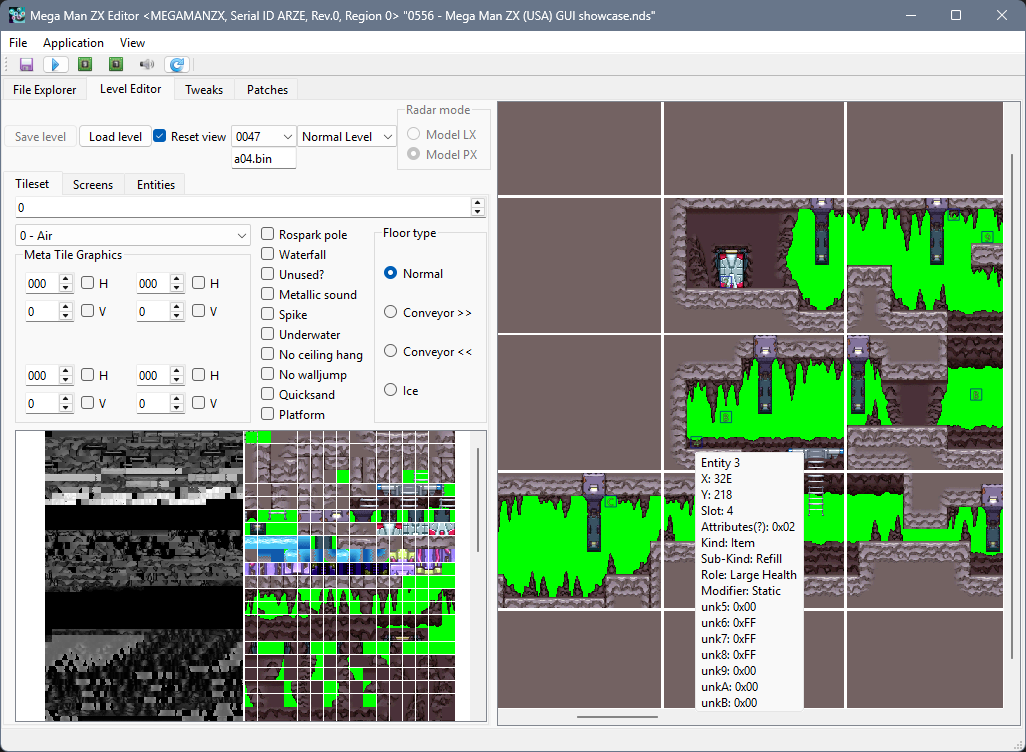
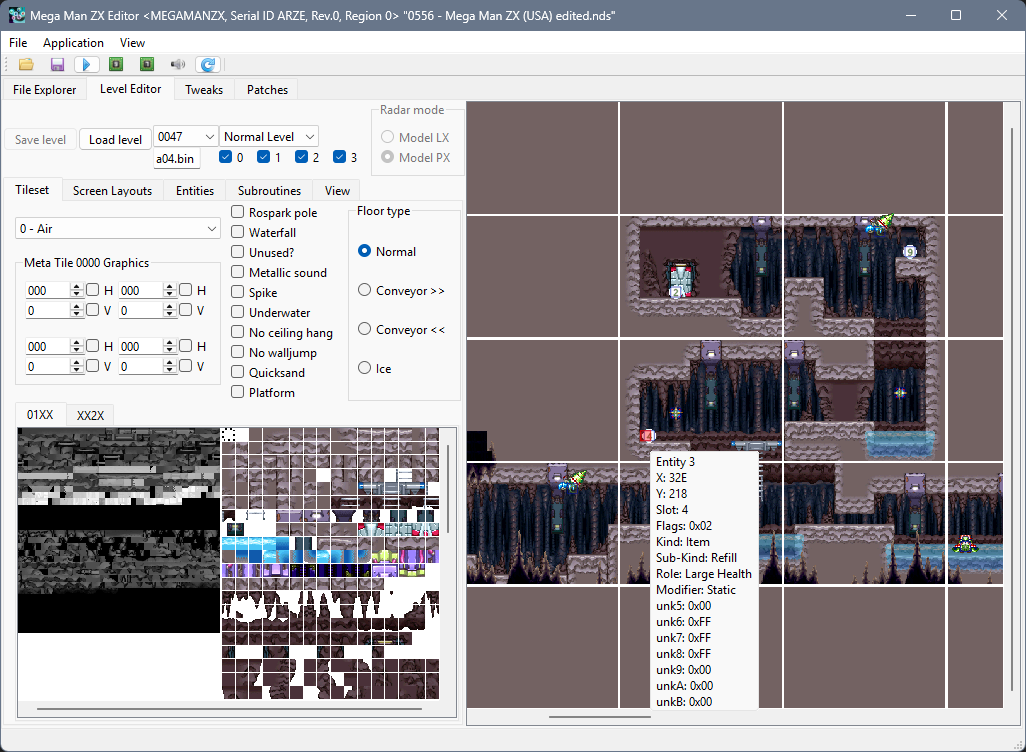
Level Editor more compact
- Removed spacing and margins in a lot of layouts and set size policies to maximize the amount of space taken by the level view and tileset view while making the other widgets more compact
- Bump pyhton and PyQt versions in about

diff --git a/MME_NDS.py b/MME_NDS.py
@@ -80,8 +80,8 @@ class MainWindow(QtWidgets.QMainWindow):
         super().__init__()
         # expected module versions
         self.VERSION_EDITOR = "0.4.6" # objective, feature, WIP
-        self.VERSION_PYTHON = "3.14.3"
-        self.VERSION_PYQT = "6.11.0"
+        self.VERSION_PYTHON = "3.15.1"
+        self.VERSION_PYQT = "6.12.0"
         self.VERSION_NDSPY = "4.2.0"
         self.window_width = 1024
         self.window_height = 720
@@ -449,6 +449,7 @@ class MainWindow(QtWidgets.QMainWindow):
 
         self.page_leveleditor = QtWidgets.QWidget(self.tabs)
         self.page_leveleditor.setLayout(QtWidgets.QHBoxLayout())
+        self.page_leveleditor.layout().setSpacing(1)
         self.page_leveleditor.layout().setContentsMargins(0,0,0,0)
 
         self.page_tweaks = QtWidgets.QWidget(self.tabs)
@@ -1272,42 +1273,43 @@ class MainWindow(QtWidgets.QMainWindow):
         self.FILEOPEN_WIDGETS: list[QtWidgets.QWidget] = [self.tree, *self.viewFormatsGroup.actions(), self.displayConvAction]
 
         # Level Editor(WIP)
-        self.layout_level_editpannel = QtWidgets.QVBoxLayout()
-        self.layout_level_editpannel.setContentsMargins(0,0,0,0)
+        self.level_editpannel = QtWidgets.QWidget(self.page_leveleditor)
+        self.level_editpannel.setSizePolicy(QtWidgets.QSizePolicy.Policy.Maximum, QtWidgets.QSizePolicy.Policy.Preferred)
+        self.level_editpannel.setLayout(QtWidgets.QVBoxLayout())
+        self.level_editpannel.layout().setContentsMargins(0,0,0,0)
+        self.level_editpannel.layout().setSpacing(0)
 
-        self.button_level_save = QtWidgets.QPushButton("Save level", self.page_leveleditor)
+        self.button_level_save = QtWidgets.QPushButton("Save level", self.level_editpannel)
         self.button_level_save.setMaximumWidth(75)
         self.button_level_save.setToolTip("Save this level's changes")
         self.button_level_save.pressed.connect(self.save_level)
         self.button_level_save.setDisabled(True)
 
-        self.button_level_load = QtWidgets.QPushButton("Load level", self.page_leveleditor)
+        self.button_level_load = QtWidgets.QPushButton("Load level", self.level_editpannel)
         self.button_level_load.setMaximumWidth(75)
         self.button_level_load.setToolTip("Load tileset(s) and layout. May take some time")
         self.button_level_load.pressed.connect(self.loadLevel)
         self.button_level_load.setDisabled(True)
 
-        self.checkbox_level_fitInView = QtWidgets.QCheckBox("Reset view", self.page_leveleditor)
-        self.checkbox_level_fitInView.setChecked(True)
-
-        self.dropdown_level_area = QtWidgets.QComboBox(self.page_leveleditor)
+        self.dropdown_level_area = QtWidgets.QComboBox(self.level_editpannel)
         self.dropdown_level_area.setPlaceholderText("Select...")
         self.dropdown_level_area.setToolTip("Choose an overlay to load")
         self.dropdown_level_area.currentIndexChanged.connect(self.updateLevelareaUI)
         self.dropdown_level_area.setDisabled(True)
 
-        self.lineedit_level_tilesetName = QtWidgets.QLineEdit("N/A", self.page_leveleditor)
+        self.lineedit_level_tilesetName = QtWidgets.QLineEdit("N/A", self.level_editpannel)
         self.lineedit_level_tilesetName.setToolTip("The name of the asset file that is used")
         self.lineedit_level_tilesetName.setMaxLength(8)
+        self.lineedit_level_tilesetName.setMaximumWidth(self.lineedit_level_tilesetName.fontMetrics().averageCharWidth()*self.lineedit_level_tilesetName.maxLength())
         self.lineedit_level_tilesetName.textChanged.connect(lambda: self.button_level_save.setEnabled(True))
         self.lineedit_level_tilesetName.setDisabled(True)
 
         self.layout_level_type = QtWidgets.QVBoxLayout()
         self.layout_level_type.setAlignment(QtCore.Qt.AlignmentFlag.AlignTop)
         self.layout_level_type.setContentsMargins(0,24,0,0)
-        self.dropdown_level_type = QtWidgets.QComboBox(self.page_leveleditor)
+        self.dropdown_level_type = QtWidgets.QComboBox(self.level_editpannel)
         self.dropdown_level_type.setPlaceholderText("N/A")
-        self.dropdown_level_type.setMinimumWidth(100)
+        self.dropdown_level_type.setMaximumWidth(100)
         self.dropdown_level_type.setToolTip("Choose between normal level and scanner map (if applicable)")
         self.dropdown_level_type.currentIndexChanged.connect(lambda: self.group_radar_tilesetType.setEnabled(self.dropdown_level_type.currentIndex() == 1))
         self.dropdown_level_type.currentIndexChanged.connect(lambda: self.checkbox_level_layout0.setEnabled(self.dropdown_level_type.currentIndex() == 0))
@@ -1317,17 +1319,17 @@ class MainWindow(QtWidgets.QMainWindow):
         self.dropdown_level_type.setDisabled(True)
 
         self.layout_level_layouts = QtWidgets.QHBoxLayout()
-        self.checkbox_level_layout0 = QtWidgets.QCheckBox("0", self.page_leveleditor)
+        self.checkbox_level_layout0 = QtWidgets.QCheckBox("0", self.level_editpannel)
         self.checkbox_level_layout0.setToolTip("Load Layout 0")
         self.checkbox_level_layout0.setChecked(True)
         self.checkbox_level_layout0.setDisabled(True)
-        self.checkbox_level_layout1 = QtWidgets.QCheckBox("1", self.page_leveleditor)
+        self.checkbox_level_layout1 = QtWidgets.QCheckBox("1", self.level_editpannel)
         self.checkbox_level_layout1.setToolTip("Load Layout 1")
         self.checkbox_level_layout1.setDisabled(True)
-        self.checkbox_level_layout2 = QtWidgets.QCheckBox("2", self.page_leveleditor)
+        self.checkbox_level_layout2 = QtWidgets.QCheckBox("2", self.level_editpannel)
         self.checkbox_level_layout2.setToolTip("Load Layout 2")
         self.checkbox_level_layout2.setDisabled(True)
-        self.checkbox_level_layout3 = QtWidgets.QCheckBox("3", self.page_leveleditor)
+        self.checkbox_level_layout3 = QtWidgets.QCheckBox("3", self.level_editpannel)
         self.checkbox_level_layout3.setToolTip("Load Layout 3")
         self.checkbox_level_layout3.setDisabled(True)
         self.layout_level_layouts.addWidget(self.checkbox_level_layout0)
@@ -1338,25 +1340,28 @@ class MainWindow(QtWidgets.QMainWindow):
         self.layout_level_type.addWidget(self.dropdown_level_type)
         self.layout_level_type.addItem(self.layout_level_layouts)
 
-        self.radio_radar_LX = QtWidgets.QRadioButton(self.page_leveleditor)
+        self.radio_radar_LX = QtWidgets.QRadioButton(self.level_editpannel)
         self.radio_radar_LX.setText("Model LX")
-        self.radio_radar_PX = QtWidgets.QRadioButton(self.page_leveleditor)
+        self.radio_radar_PX = QtWidgets.QRadioButton(self.level_editpannel)
         self.radio_radar_PX.setText("Model PX")
         self.buttonGroup_radar_tilesetType = QtWidgets.QButtonGroup()
         self.buttonGroup_radar_tilesetType.addButton(self.radio_radar_LX, 2) # rindex to getData
         self.buttonGroup_radar_tilesetType.addButton(self.radio_radar_PX, 1)
         #self.buttonGroup_radar_tilesetType.idReleased.connect(self.loadLevel)
-        self.group_radar_tilesetType = QtWidgets.QGroupBox(self.page_leveleditor)
-        self.group_radar_tilesetType.setMaximumHeight(70)
+        self.group_radar_tilesetType = QtWidgets.QGroupBox(self.level_editpannel)
+        self.group_radar_tilesetType.setSizePolicy(QtWidgets.QSizePolicy.Policy.Maximum, QtWidgets.QSizePolicy.Policy.Maximum)
         self.group_radar_tilesetType.setTitle("Radar mode")
         self.group_radar_tilesetType.setLayout(QtWidgets.QVBoxLayout())
+        self.group_radar_tilesetType.layout().setSpacing(0)
         self.group_radar_tilesetType.layout().addWidget(self.radio_radar_LX)
         self.group_radar_tilesetType.layout().addWidget(self.radio_radar_PX)
         self.group_radar_tilesetType.setDisabled(True)
 
-        self.tabs_level = QtWidgets.QTabWidget(self.page_leveleditor)
+        self.tabs_level = QtWidgets.QTabWidget(self.level_editpannel)
+        self.tabs_level.setContentsMargins(0,0,0,0)
         self.page_level_tileset = QtWidgets.QWidget(self.tabs_level)
         self.page_level_tileset.setLayout(QtWidgets.QVBoxLayout())
+        self.page_level_tileset.layout().setSpacing(0)
         self.page_level_tileset.layout().setContentsMargins(10,0,0,0)
         self.page_level_screens = QtWidgets.QWidget(self.tabs_level)
         self.page_level_screens.setLayout(QtWidgets.QVBoxLayout())
@@ -1399,8 +1404,11 @@ class MainWindow(QtWidgets.QMainWindow):
         self.dropdown_metaTile_collisionShape.setDisabled(True)
 
         self.group_metaTile_gfx = QtWidgets.QGroupBox(self.page_level_tileset)
+        self.group_metaTile_gfx.setSizePolicy(QtWidgets.QSizePolicy.Policy.Maximum, QtWidgets.QSizePolicy.Policy.Maximum)
         self.group_metaTile_gfx.setTitle("Meta Tile Graphics")
         self.group_metaTile_gfx.setLayout(QtWidgets.QGridLayout())
+        self.group_metaTile_gfx.layout().setAlignment(QtCore.Qt.AlignmentFlag.AlignCenter)
+        self.group_metaTile_gfx.layout().setSpacing(0)
         self.group_metaTile_gfx.setDisabled(True)
 
         self.field_metaTile_topLeft_id = lib.widget.BetterSpinBox(self.page_level_tileset)
@@ -1548,7 +1556,9 @@ class MainWindow(QtWidgets.QMainWindow):
         self.buttonGroup_metaTile_attrConvey.addButton(self.radio_metaTile_attrConveyL, 2)
         self.buttonGroup_metaTile_attrConvey.addButton(self.radio_metaTile_attrIce, 3)
         self.buttonGroup_metaTile_attrConvey.idReleased.connect(lambda: self.changeTileAttr("10011111", self.buttonGroup_metaTile_attrConvey.checkedId()))
+        self.layout_metaTile_attrConvey = QtWidgets.QGridLayout()
         self.group_metaTile_attrConvey = QtWidgets.QGroupBox(self.page_level_tileset)
+        self.group_metaTile_attrConvey.setSizePolicy(QtWidgets.QSizePolicy.Policy.Maximum, QtWidgets.QSizePolicy.Policy.Minimum)
         self.group_metaTile_attrConvey.setTitle("Floor type")
         self.group_metaTile_attrConvey.setLayout(QtWidgets.QVBoxLayout())
         self.group_metaTile_attrConvey.layout().addWidget(self.radio_metaTile_attrNone)
@@ -1556,6 +1566,7 @@ class MainWindow(QtWidgets.QMainWindow):
         self.group_metaTile_attrConvey.layout().addWidget(self.radio_metaTile_attrConveyL)
         self.group_metaTile_attrConvey.layout().addWidget(self.radio_metaTile_attrIce)
         self.group_metaTile_attrConvey.setDisabled(True)
+        self.layout_metaTile_attrConvey.addWidget(self.group_metaTile_attrConvey)
         self.checkbox_metaTile_attrPlat = QtWidgets.QCheckBox(self.page_level_tileset)
         self.checkbox_metaTile_attrPlat.setText("Platform")
         self.checkbox_metaTile_attrPlat.setStatusTip("Has only top collision and allows to drop through it with Down+Jump. Model P can hang from it and climb it.")
@@ -1566,19 +1577,19 @@ class MainWindow(QtWidgets.QMainWindow):
         self.layout_metaTile_shape.addWidget(self.dropdown_metaTile_collisionShape)
         self.layout_metaTile_shape.addWidget(self.group_metaTile_gfx)
 
-        self.layout_metaTile_attr = QtWidgets.QGridLayout()
-        self.layout_metaTile_attr.setContentsMargins(10, 0, 0, 0)
-        self.layout_metaTile_attr.addWidget(self.checkbox_metaTile_attrRospark, 0, 0)
-        self.layout_metaTile_attr.addWidget(self.checkbox_metaTile_attrWaterfall, 1, 0)
-        self.layout_metaTile_attr.addWidget(self.checkbox_metaTile_attrUnk2, 2, 0)
-        self.layout_metaTile_attr.addWidget(self.checkbox_metaTile_attrMetal, 3, 0)
-        self.layout_metaTile_attr.addWidget(self.checkbox_metaTile_attrSpike, 4, 0)
-        self.layout_metaTile_attr.addWidget(self.checkbox_metaTile_attrWater, 5, 0)
-        self.layout_metaTile_attr.addWidget(self.checkbox_metaTile_attrNoCeilHang, 6, 0)
-        self.layout_metaTile_attr.addWidget(self.checkbox_metaTile_attrNoWalljump, 7, 0)
-        self.layout_metaTile_attr.addWidget(self.checkbox_metaTile_attrSand, 8, 0)
-        self.layout_metaTile_attr.addWidget(self.checkbox_metaTile_attrPlat, 9, 0)
-        self.layout_metaTile_attr.addWidget(self.group_metaTile_attrConvey, 0, 2, 10, 1)
+        self.layout_metaTile_attr = QtWidgets.QVBoxLayout()
+        self.layout_metaTile_attr.setSpacing(0)
+        self.layout_metaTile_attr.setContentsMargins(0, 0, 0, 0)
+        self.layout_metaTile_attr.addWidget(self.checkbox_metaTile_attrRospark)
+        self.layout_metaTile_attr.addWidget(self.checkbox_metaTile_attrWaterfall)
+        self.layout_metaTile_attr.addWidget(self.checkbox_metaTile_attrUnk2)
+        self.layout_metaTile_attr.addWidget(self.checkbox_metaTile_attrMetal)
+        self.layout_metaTile_attr.addWidget(self.checkbox_metaTile_attrSpike)
+        self.layout_metaTile_attr.addWidget(self.checkbox_metaTile_attrWater)
+        self.layout_metaTile_attr.addWidget(self.checkbox_metaTile_attrNoCeilHang)
+        self.layout_metaTile_attr.addWidget(self.checkbox_metaTile_attrNoWalljump)
+        self.layout_metaTile_attr.addWidget(self.checkbox_metaTile_attrSand)
+        self.layout_metaTile_attr.addWidget(self.checkbox_metaTile_attrPlat)
 
         self.layout_level_areaName = QtWidgets.QVBoxLayout()
         self.layout_level_areaName.setAlignment(QtCore.Qt.AlignmentFlag.AlignTop)
@@ -1589,15 +1600,17 @@ class MainWindow(QtWidgets.QMainWindow):
         self.layout_level_area = QtWidgets.QHBoxLayout()
         self.layout_level_area.addWidget(self.button_level_save)
         self.layout_level_area.addWidget(self.button_level_load)
-        self.layout_level_area.addWidget(self.checkbox_level_fitInView)
         self.layout_level_area.addItem(self.layout_level_areaName)
         self.layout_level_area.addItem(self.layout_level_type)
         self.layout_level_area.addWidget(self.group_radar_tilesetType)
 
         self.layout_metaTile_properties = QtWidgets.QHBoxLayout()
+        self.layout_metaTile_properties.setSpacing(10)
         self.layout_metaTile_properties.addItem(self.layout_metaTile_shape)
         self.layout_metaTile_properties.addItem(self.layout_metaTile_attr)
+        self.layout_metaTile_properties.addItem(self.layout_metaTile_attrConvey)
         self.tabs_level_tileset = QtWidgets.QTabWidget(self.page_level_tileset)
+        self.tabs_level_tileset.setContentsMargins(0,0,0,0)
 
         self.checkbox_tileset_loadAll = QtWidgets.QCheckBox("Load all tilesets", self.page_level_tileset)
         self.checkbox_tileset_loadAll.setStatusTip("Whether or not all used tilesets should be loaded. Disable if you want levels to load faster and don't need to see the graphics.")
@@ -1822,6 +1835,9 @@ class MainWindow(QtWidgets.QMainWindow):
         self.tabs_level_entities.addTab(self.page_level_entities_preload, "Preload data")
 
         #View parameters
+
+        self.checkbox_level_fitInView = QtWidgets.QCheckBox("Reset view", self.page_level_view)
+        self.checkbox_level_fitInView.setChecked(True)
         # todo: add option to choose on what layer graphics are drawn
         self.group_view_focus = QtWidgets.QGroupBox(self.page_level_view)
         self.group_view_focus.setLayout(QtWidgets.QVBoxLayout())
@@ -1854,6 +1870,7 @@ class MainWindow(QtWidgets.QMainWindow):
         self.group_view_hide.setLayout(QtWidgets.QVBoxLayout())
         self.group_view_hide.setTitle("Show Layouts")
 
+        self.page_level_view.layout().addWidget(self.checkbox_level_fitInView)
         self.page_level_view.layout().addWidget(self.group_view_focus)
         self.page_level_view.layout().addWidget(self.group_view_hide)
 
@@ -1861,9 +1878,9 @@ class MainWindow(QtWidgets.QMainWindow):
         self.gfx_view_level = lib.widget.LevelView(self.page_leveleditor, screenSpacing=4)
         self.gfx_view_level.scene().selectionChanged.connect(self.loadEntityProperties)
 
-        self.page_leveleditor.layout().addItem(self.layout_level_editpannel)
-        self.layout_level_editpannel.addItem(self.layout_level_area)
-        self.layout_level_editpannel.addWidget(self.tabs_level)
+        self.page_leveleditor.layout().addWidget(self.level_editpannel)
+        self.level_editpannel.layout().addItem(self.layout_level_area)
+        self.level_editpannel.layout().addWidget(self.tabs_level)
         self.page_level_tileset.layout().addWidget(self.checkbox_tileset_loadAll)
         self.page_level_tileset.layout().addItem(self.layout_metaTile_properties)
         self.page_level_tileset.layout().addWidget(self.tabs_level_tileset)
@@ -5153,6 +5170,7 @@ class MainWindow(QtWidgets.QMainWindow):
                 view: lib.widget.TilesetView = getattr(self, f"gfx_view_tileset_{offset_name}")
                 view.scene().selectionChanged.connect(self.loadTileProperties)
                 page.setLayout(QtWidgets.QGridLayout())
+                page.layout().setContentsMargins(0,0,0,0)
                 page.layout().addWidget(view)
                 page.setObjectName(offset_name)
                 self.loadTileset(view, gfx_table, pal_list, indexes)
